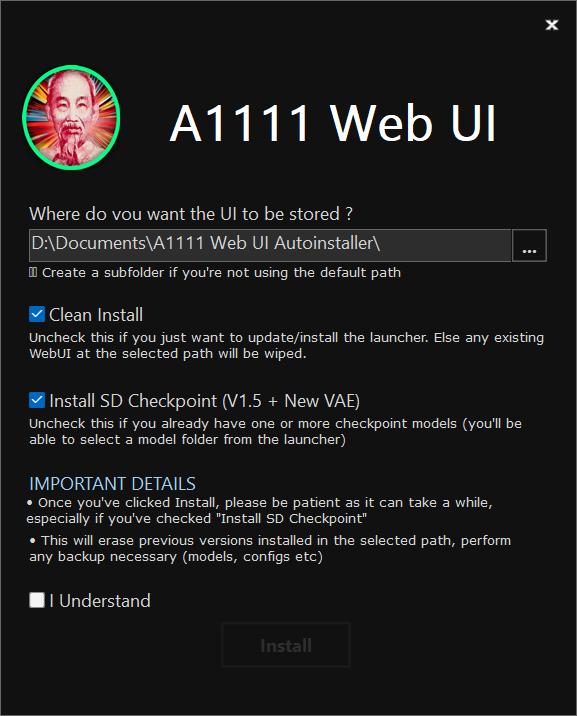
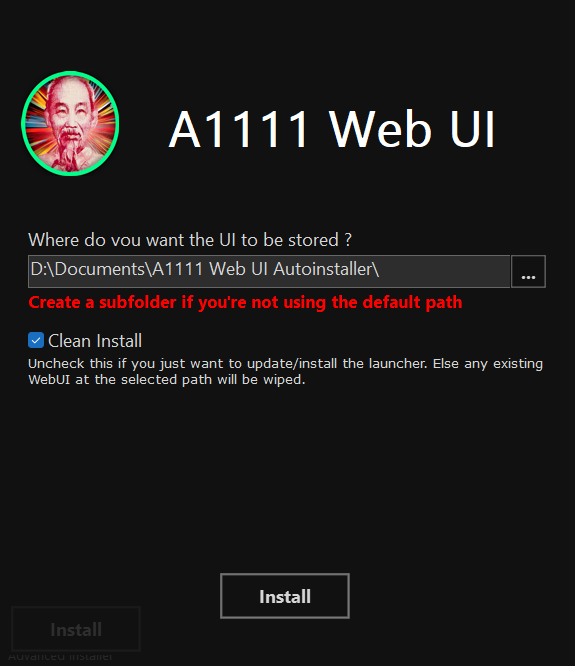
Updating Readme

diff --git a/README.md b/README.md
@@ -25,21 +25,19 @@ If you want to improve the installer, git clone or Fork & Pull Request (this pro
 
 3. **Select where you want to install the WebUI**
    >Default is fine but if you want to install things somewhere else, it is highly recommended to do it in a dedicated empty folder, else it's going to be pretty messy
-4. **The checkboxes:**
-   1.  [x] **Clean Install** : Keep it checked if this is your first install via this Auto Installer. Uncheck it if you only want to update the Launcher and keep your existing WebUI intact (with your settings/models/extensions etc.)
-         >**Note** (experimented users only): It ***may*** be possible to add the Launcher to an existing WebUI folder that you had manually git cloned (without this installer), as long as you move the WebUI folder into a subfolder, and chose said subfolder as the Install Path during the install. **But I haven't tested it and it could result in some random stuff**
-   2.  [x] **Install SD Checkpoint** : Select it if you don't have already have a Checkpoints/Models folder
-         >⚠ if you have no idea what this means, leave the box checked
-   3.   [x] **I Understand** : Read the "Important Details" and check it if you understand
+4. **"Clean Install"**: Keep it checked if this is your first install via this Auto Installer. Uncheck it if you only want to update the Launcher and keep your existing WebUI intact (with your settings/models/extensions etc.)
+      >**Note** (experimented users only): It ***may*** be possible to add the Launcher to an existing WebUI folder that you had manually git cloned (without this installer), as long as you move the WebUI folder into a subfolder, and chose said subfolder as the Install Path during the install. **But I haven't tested it and it could result in some random stuff**
 5. Click <kbd>Install</kbd> and **remember, this can take a while**
 6.  Once installed, a folder will open with a shortcut called ***A1111 WebUI (Pin to Taskbar)***
 7.  You can drag & drop it on your taskbar if you wish, this is the launcher for the WebUI
 8.  Launch the shortcut to open the **[Custom Launcher](#the-launcher)**
-9.  Once you've selected what you wanted, click **`LAUNCH WEBUI`**, this will quit the launcher and proceed in the terminal window, logging what it's doing 
+9.  It should install all the dependencies and ask you if you want to download the base SD model to generate images
+    >⚠Click "No" only if you already have one or more models somewhere, and don't forget to select the folder where they're stored in the launcher
+10. Once you've selected what you wanted in the launcher, click **`LAUNCH WEBUI`**, this will quit the launcher and proceed in the terminal window, logging what it's doing 
       >⚠**Be patient** this will take a while at first, when it's ready, it will open the webUI in your browser
 
       >⚠**Read the WARN message**
-10. When you're done using the WebUI, close the browser tab & close the terminal window
+11. When you're done using the WebUI, close the browser tab & close the terminal window
     
 
 # THE LAUNCHER
